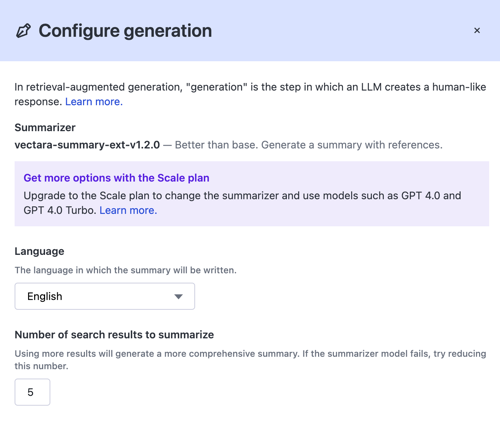
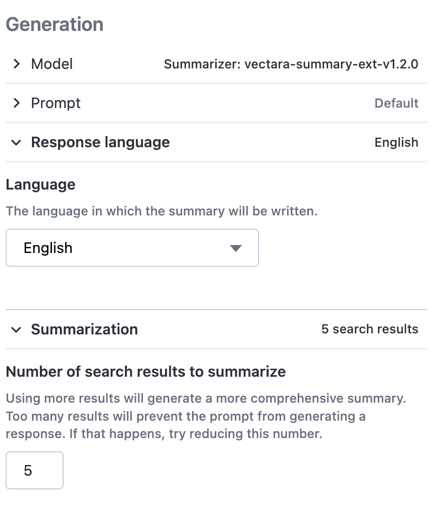
Fix typos and update screenshots

diff --git a/www/docs/console-ui/corpus_create.md b/www/docs/console-ui/corpus_create.md
@@ -14,14 +14,19 @@ together in a single location for querying.
    if this is your first time accessing the console.
 
 3. Click **Create corpus** and a dialog box appears.
-4. Enter the name and description of the corpus.
-5. Select an Embedding Model, such as Boomerang.
-6. Specify any Filter Attributes.
-7. (Optional) Click **Inspect** and the request inspector appears. You can now 
+4. Select the kind of app that you want to build or select **Decide later**.
+5. Enter the **Name** of the corpus.
+6. Enter the **Key** of the corpus which will be used to uniquely identify the corpus
+7. (Optional) Enter a Description about the corpus.
+8. Select an Embedding model, such as Boomerang.
+9. Click the Filter attributes drop-down, click Add filter attribute, and 
+   configure attributes at the document or part levels.
+10. Click Add to return to the previous page.
+11. (Optional) Click **Show API Request** and the request inspector appears. You can now 
    optionally create this corpus by copying and pasting the application code 
    in NodeJS, JavaScript, Linux, or Windows.
 
-  ![Create Corpus Request Inspector](/img/create_corpus_request_inspector.png)
+  ![Create Corpus Request Inspector](/img/create-corpus-api-request.png)
 
 8. Click **Create**.
 
@@ -30,43 +35,56 @@ together in a single location for querying.
 The corpus is created and a confirmation message appears. It is now ready to 
 receive your data.
 
-## View the Corpus ID
+## View the Corpus Key
 
-Vectara API requests against a corpus require the corpus ID. Find the corpus 
-ID in the top-left corner of the corpus view, near the corpus name.
+Vectara API requests against a corpus require the Corpus Key. To view Corpus 
+Key and other information about the corpus, select the corpus name from the 
+top-menu:
 
-![View Corpus ID](/img/view_corpus_id.png)
+![View Corpus Key](/img/corpus_dropdown.png)
 
-When you create a corpus, the following tabs appear:
+If you select Manage, the following options appear:
 
-## Data
+### Settings
 
-The Data tab provides a link to the API documentation and drag-and-drop file 
-uploader. Click **Upload files** and then select your text, HTML, PDF, Word 
-files, and more. It is the quickest way to ingest your data to ask some 
-questions.
+The Settings tab displays the current embedding model, indexing semantics, 
+filter attributes and Custom dimensions (Scale only). This page also has a 
+Dangerous actions section that lets you disable the corpus, clear corpus data, 
+or delete the corpus.
 
-The Data tab also lets you take a Vectara test drive by loading sample 
-data from an employee handbook PDF. 
-
-## Query
-
-The [Query tab](/docs/console-ui/corpus-query-configuration) lets you ask questions about your data. You can also use 
-Advanced options and show the API request to copy and paste queries in your 
-application code and view responses.
-
-## Analytics
-
-The Analytics tab provides usage statistics about the corpus and you can 
-download this data in `.SVG`, `.PNG`, or `.CSV` format.
-
-## Access Control
+### Access Control
 
 The Access control tab defines the users and roles that have access to the 
 corpus. You can also [create new user roles](/docs/learn/authentication/role-based-access-control), 
 a default role, and [API keys](/docs/console-ui/api-access-overview) associated with this corpus.
 
-## Configuration
+### Analytics
 
-The Configuration tab lets you view the embedding model and filter attributes 
-for the corpus. You can also Edit filter attributes from this page.
+The Analytics tab provides usage statistics about the corpus and you can 
+download this data in `.SVG`, `.PNG`, or `.CSV` format.
+
+### Data
+
+The Data tab lets you **Load data into corpus**. It is the quickest way 
+to ingest your data to ask some questions. 
+
+## Query the corpus
+
+The corpus name drop-down has a [Query option](/docs/console-ui/corpus-query-configuration) that 
+lets you ask questions about your data. It provides Chat, Summary, and 
+Semantic search interface types, each with their own configuration.
+
+### Configure the corpus
+
+The Configuration tab lets you set options for the Chat, Summary, and Semantic 
+search user interface types.
+
+### Browse data
+
+The Browse data tab shows the documents in your corpus.
+
+### Filters
+
+The Filters tab lets you view the filter attributes for the corpus and some 
+syntax examples.
+

diff --git a/www/docs/console-ui/corpus_query_configuration.md b/www/docs/console-ui/corpus_query_configuration.md
@@ -9,7 +9,7 @@ import TabItem from '@theme/TabItem';
 import {Config} from '@site/docs/definitions.md';
 import {vars} from '@site/static/variables.json';
 
-The Query tab lets you experiement with different search, summarization, and 
+The Query tab lets you experiment with different search, summarization, and 
 chat options. Whether you want to retrieve relevant information, generate 
 summaries grounded in facts with Retrieval-Augmented Generation (RAG), or 
 engage in conversational interactions, the Query tab offers a range of 
@@ -26,7 +26,7 @@ information from your corpus and you have two options.
    and context of your queries, enabling accurate and relevant search results.
 2. **Summarized Semantic Search**: Extending the Semantic Search functionality, this 
    option uses Retrieval-Augmented Generation (RAG) to provide concise summaries in 
-   response to your queries. This can be particularly useful when you need a
+   response to your queries. This can be particularly useful when you need an 
    overview of the relevant information within your data.
 
 Both search options provide various configuration settings to fine-tune the search experience
@@ -49,21 +49,33 @@ your specific needs:
 
 ### Configure retrieval
 
-The retrieval configuration lets you enable hybrid search by adjusting the 
-`lambda` value, which is a balance between neural search and keyword search. The 
-reranking option lets you rerank orders of search results and Scale users can 
-use the Maximum Marginal Relevance (MMR) Reranker with a diversity factor to 
+The Retrieval configuration lets you enable hybrid search by adjusting the 
+`lambda` value, which is a balance between neural search and keyword search. 
+
+![Configure hybrid search](/img/configure_hybrid_search.png)
+
+The reranking option lets you rerank orders of search results also use the 
+Maximum Marginal Relevance (MMR) Reranker with a diversity factor to 
 reduce bias.
 
-![Configure retrieval drawer](/img/configure_retrieval.png)
+![Configure reranking](/img/configure_reranking.png)
 
-### Configure search filters
 
-Select Filters to enter a filter expression or select filter attributes to 
-further refine your search results. We provide some syntax examples in the 
-drawer.
+### Configure context
+
+The Result context lets you configure the number of sentences or characters 
+before and after the matched text.
+
+![Configure reesult context](/img/configure_result_context.png)
 
 ![Configure search filters](/img/configure_filters_drawer.png)
+
+### Configure generation
+
+The Generation section shows the Model and Prompt for your account and lets 
+configure the Language and Summarization options:
+
+![Configure generation options](/img/configure_generation.png)
 
 ### Configure evaluation
 
@@ -74,8 +86,18 @@ while a lower score indicates a greater probability of hallucinations.
 
 ![Configure evaluation](/img/configure_evaluation.png)
 
+
+### Configure search filters
+
+Select the Filters tab to enter a filter expression or select filter attributes 
+to further refine your search results. We provide some syntax examples in the 
+drawer.
+
+
 ### Show API Request and Response
 
 While you experiment with these different search options and configurations, 
-you can click **Show API request** to see the underlying API request and 
-response.
+you can click **Show API request** next to the **Send query** icon to see the 
+underlying API request and response:
+
+![Show API request and response](/img/show_api_request.png)

diff --git a/www/docs/prompts/vectara_prompt_engine.md b/www/docs/prompts/vectara_prompt_engine.md
@@ -48,7 +48,7 @@ Reach out to support if you want to modify the default prompt.
 
 ## Prompt design
 
-Prompt design includes a specific a `role` and `content` about this role,
+Prompt design includes a specific `role` and `content` about this role,
 which provide context about how you want the role to behave and the kind of
 information that you want to retrieve. These values can also specify [variables
 and functions](/docs/prompts/custom-prompts-with-metadata) to provide more nuanced context. You then add different

diff --git a/www/docs/api-reference/search-apis/interpreting-responses/highlighting.md b/www/docs/api-reference/search-apis/interpreting-responses/highlighting.md
@@ -9,7 +9,7 @@ import TabItem from '@theme/TabItem';
 import {Config} from '@site/docs/definitions.md';
 
 When you receive query results from <Config v="names.product"/>, alongside the
-result, you'll receive a values for `part_metadata` and `document_metadata`. For 
+result, you'll receive values for `part_metadata` and `document_metadata`. For 
 example:
 
 ```json showLineNumbers
